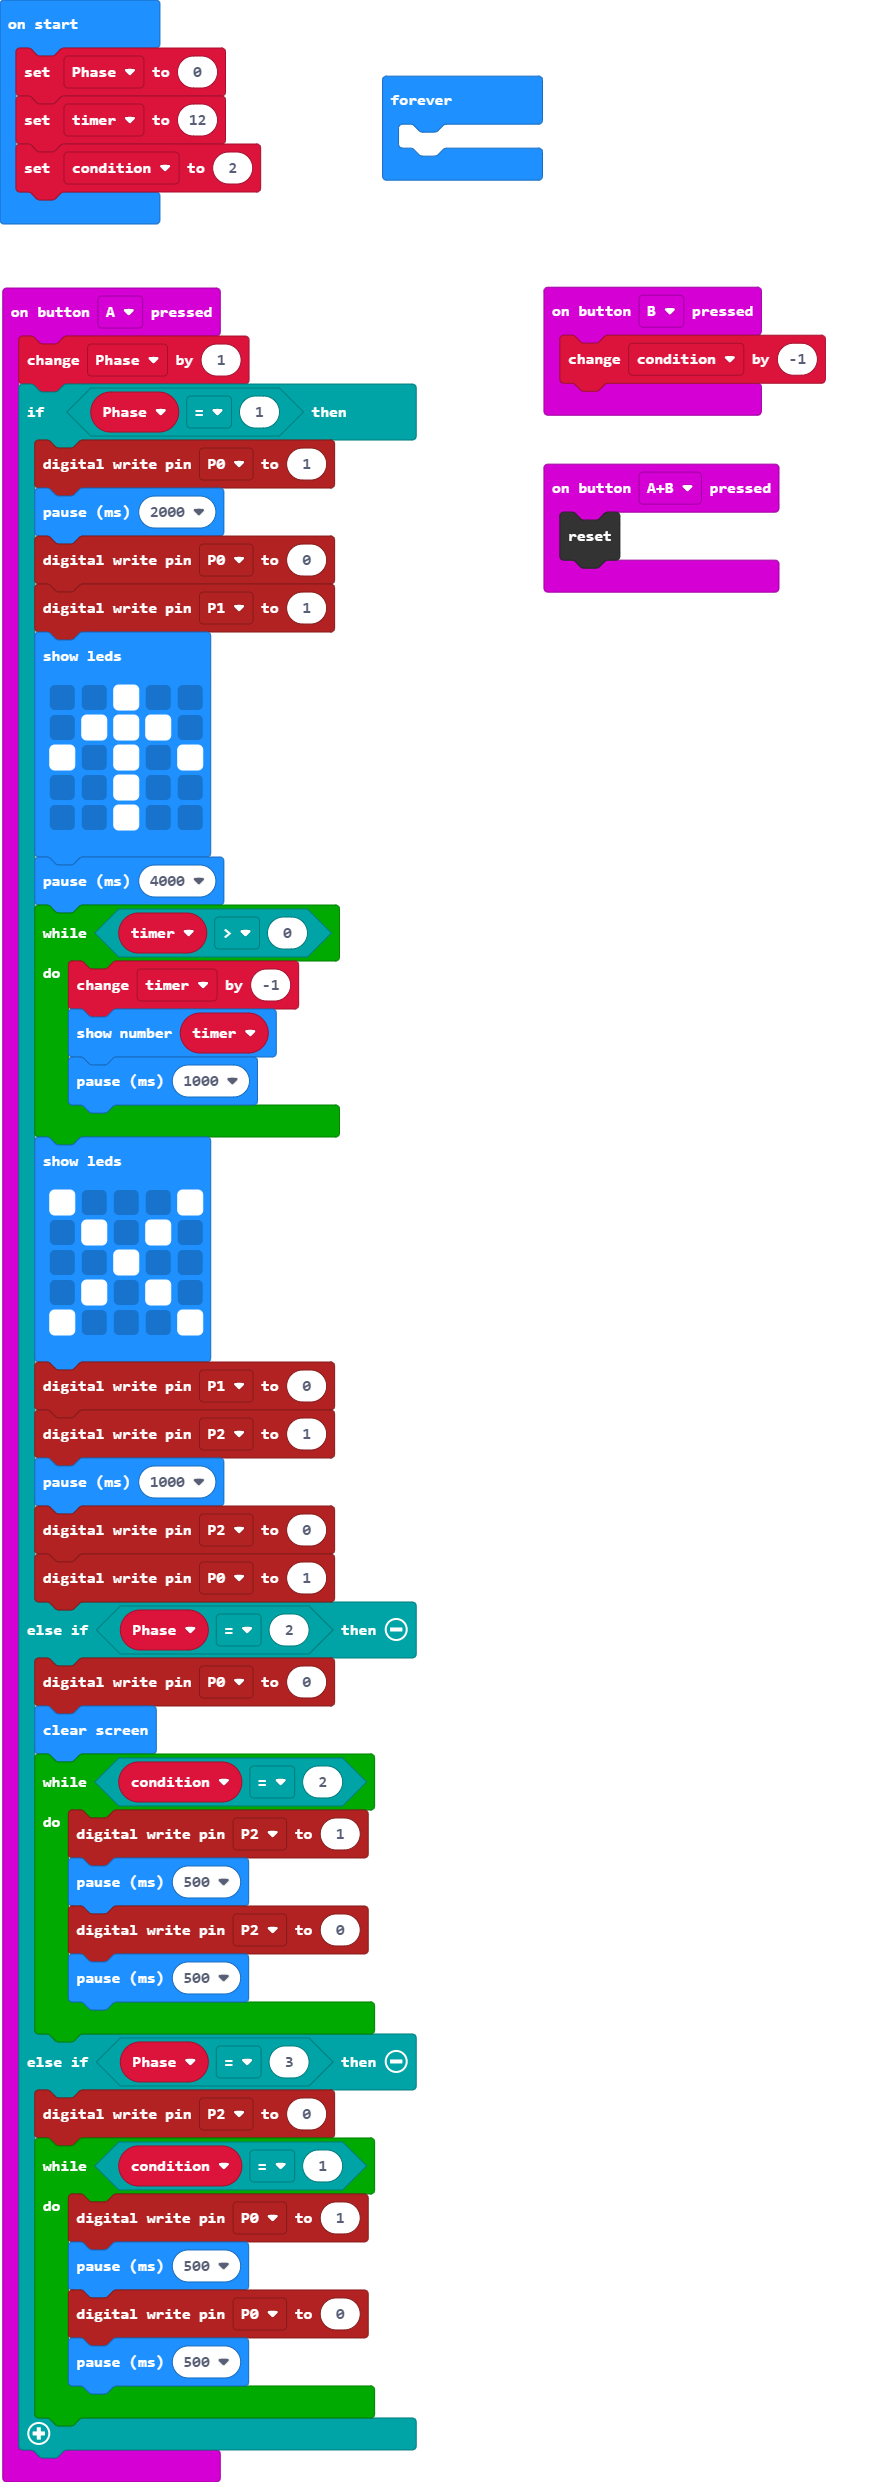
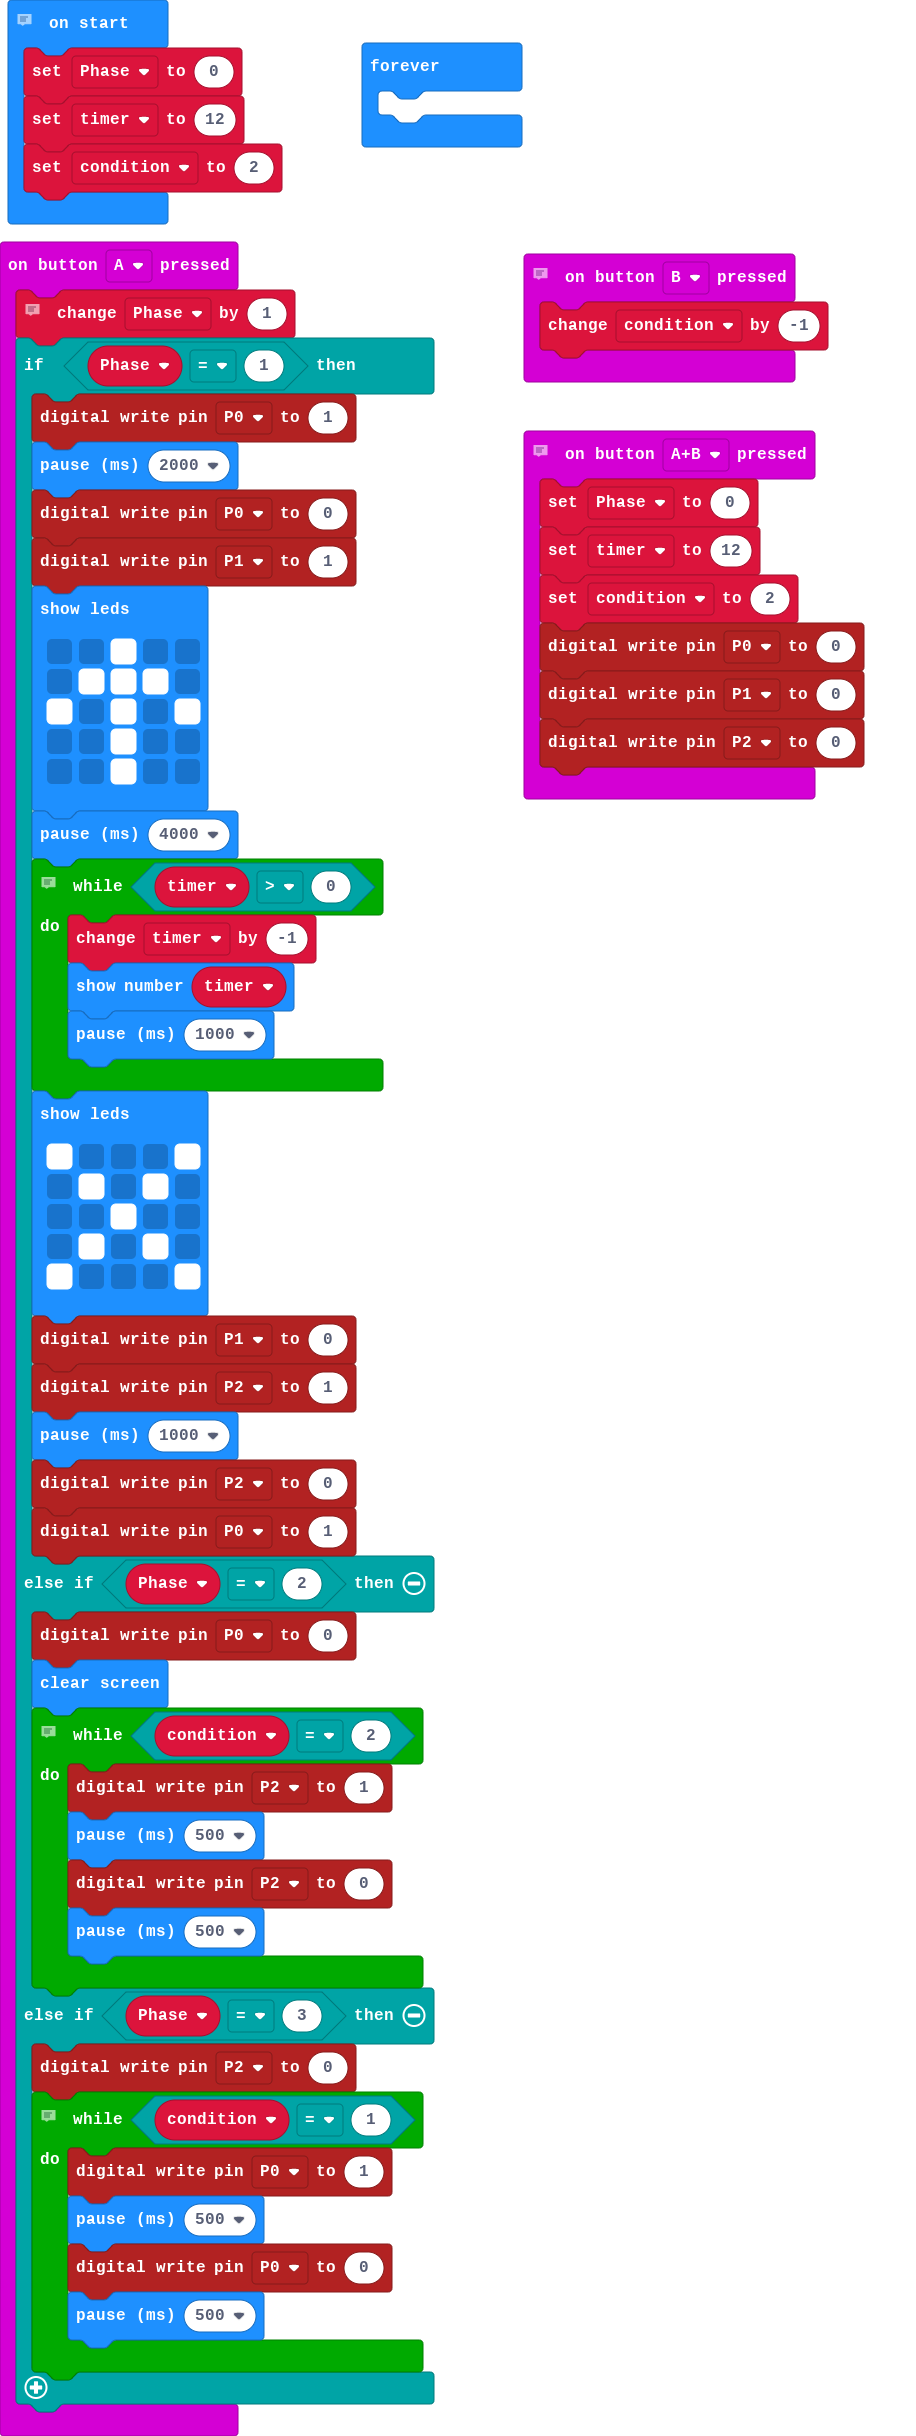
Update main.blocks, main.ts

Changed region(s): [[0.0, 0.0, 0.4926, 1.0], [0.3694, 0.0, 0.9544, 0.3432]]

diff --git a/main.ts b/main.ts
@@ -1,4 +1,5 @@
 input.onButtonPressed(Button.A, function () {
+    // This makes it so that an if statement is triggered for each phase.
     Phase += 1
     if (Phase == 1) {
         pins.digitalWritePin(DigitalPin.P0, 1)
@@ -13,6 +14,7 @@ input.onButtonPressed(Button.A, function () {
             . . # . .
             `)
         basic.pause(4000)
+        // Checks the timer variable, subtracts 1 from it and displays it until it reaches o.
         while (timer > 0) {
             timer += -1
             basic.showNumber(timer)
@@ -33,6 +35,7 @@ input.onButtonPressed(Button.A, function () {
     } else if (Phase == 2) {
         pins.digitalWritePin(DigitalPin.P0, 0)
         basic.clearScreen()
+        // Triggers the flashing red as soon as phase 2 starts because the condition variable had been set to 2 on start.
         while (condition == 2) {
             pins.digitalWritePin(DigitalPin.P2, 1)
             basic.pause(500)
@@ -41,6 +44,7 @@ input.onButtonPressed(Button.A, function () {
         }
     } else if (Phase == 3) {
         pins.digitalWritePin(DigitalPin.P2, 0)
+        // Triggers the flashing yellow when button B has been pressed (decreases condition by 1)  and phase 3 is initiated.
         while (condition == 1) {
             pins.digitalWritePin(DigitalPin.P0, 1)
             basic.pause(500)
@@ -49,12 +53,20 @@ input.onButtonPressed(Button.A, function () {
         }
     }
 })
+// Sets all variables and pins to how they were at the start; essentially resetting the program.
 input.onButtonPressed(Button.AB, function () {
-    control.reset()
+    Phase = 0
+    timer = 12
+    condition = 2
+    pins.digitalWritePin(DigitalPin.P0, 0)
+    pins.digitalWritePin(DigitalPin.P1, 0)
+    pins.digitalWritePin(DigitalPin.P2, 0)
 })
+// Changes the condition to trigger one of the while loops.
 input.onButtonPressed(Button.B, function () {
     condition += -1
 })
+// Sets the variables to their respective defaults for this program.
 let condition = 0
 let timer = 0
 let Phase = 0
